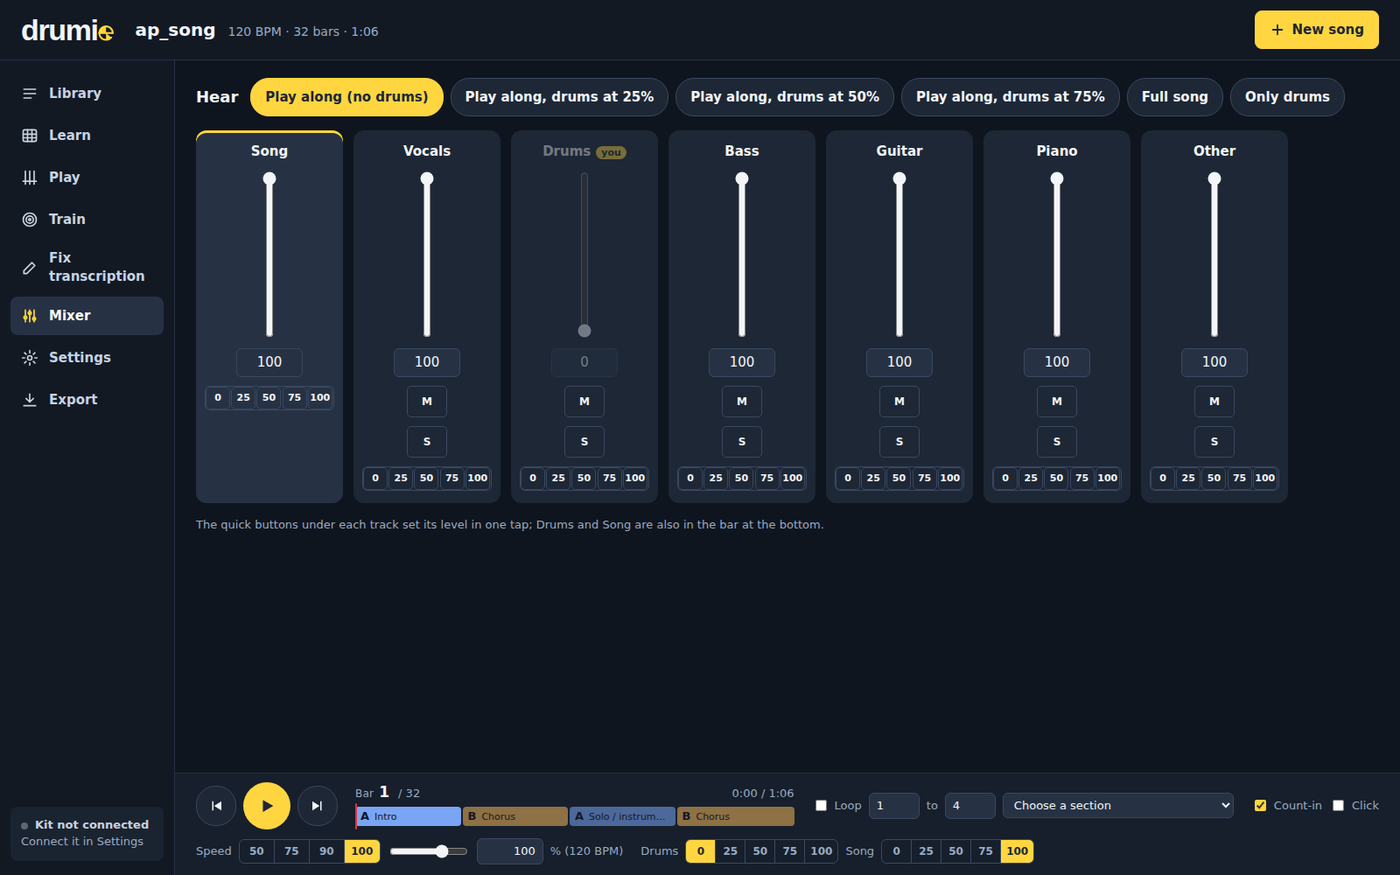
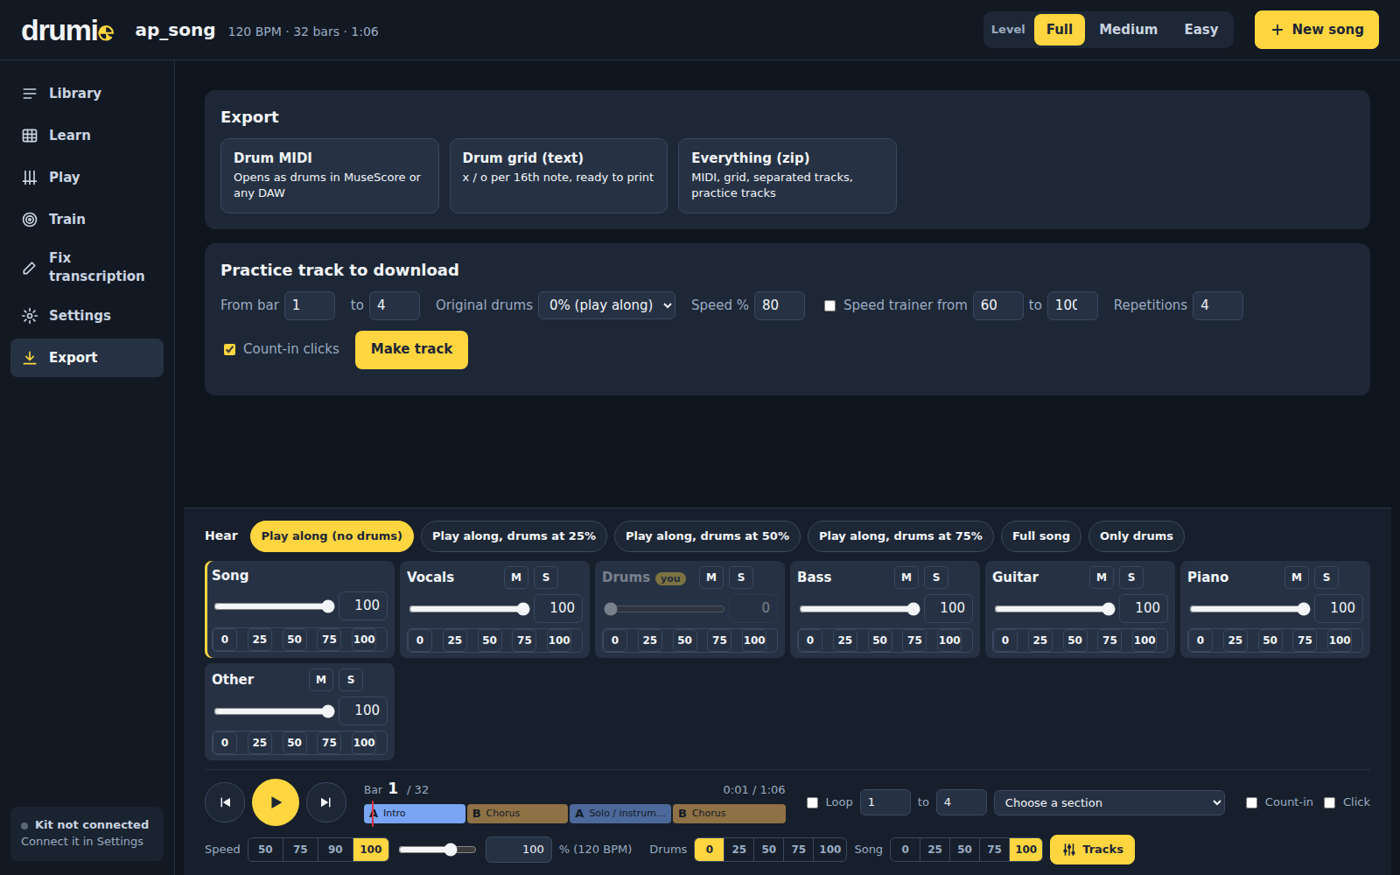
v0.36.0: the mixer in every section
Claude-Session: https://claude.ai/code/session_01PHcUNcDaac3decYkGSbU6z

diff --git a/README.md b/README.md
@@ -30,9 +30,10 @@ Questions, ideas or a song it gets wrong: open an [issue](../../issues).
 The app is organized like a practice room: a **Library** with your songs, and for the open song
 one section per job, in a sidebar (a narrow rail on laptops, a row of tabs on a phone):
 **Learn** (kit, grid, steps), **Play** (highway on your MIDI kit), **Train** (calibration,
-challenges, history), **Fix transcription**, **Mixer**, **Settings** (kit, pad map, timing,
-storage) and **Export**. The play bar at the bottom (play, bar, loop, speed, drums/song volume)
-stays the same in every section, so the music keeps going while you switch.
+challenges, history), **Fix transcription**, **Settings** (kit, pad map, timing, storage) and
+**Export**. The play bar at the bottom (play, bar, loop, speed, drums/song volume) stays the same
+in every section, so the music keeps going while you switch, and its **Tracks** button opens the
+mixer (a volume, mute and solo per instrument, and presets) right there, in any section.
 
 - **Library**: paste a link or upload a file, watch the analysis progress, open, analyze again
   or delete songs, search, and see the disk they use.
@@ -79,7 +80,7 @@ stays the same in every section, so the music keeps going while you switch.
 
 Keys: Space play/pause, arrows jump a bar, L toggles the loop.
 
-![Mixer](docs/img/mixer.png)
+![Tracks: the mixer opened from the play bar](docs/img/mixer.png)
 
 ## How accurate is it
 

diff --git a/CHANGELOG.md b/CHANGELOG.md
@@ -4,6 +4,19 @@ Every version: what changed and why, with the measurement behind it when there i
 Design notes and all measurements in detail (Portuguese): [docs/PROJETO.md](docs/PROJETO.md).
 Every version here becomes a GitHub release automatically (tag + these notes): `.github/workflows/release.yml` runs on each push to main. `scripts/release.sh` is the manual fallback.
 
+## v0.36.0 (2026-10-13): The mixer in every section; buttons styled in every browser
+
+**Tracks, in the play bar.** The Mixer section is gone: a **Tracks** button in the play bar opens
+the mixer right above it, in Learn, Play, Fix, Settings and Export, so you change what you hear
+without leaving what you're doing. Same controls as before (presets, a volume with 0/25/50/75/100,
+mute and solo per instrument, the Song master), in a compact layout; open or closed is
+remembered. An old `#/mixer` link opens Learn with the Tracks open.
+
+**Buttons styled in every browser.** The player's styles were written with CSS nesting, which
+browsers before Chrome/Edge 112, Firefox 117 and Safari 16.5 ignore completely, leaving white,
+unstyled buttons. The page now gets a flattened copy that every browser reads; checked identical
+to the nested version on all 41,574 element styles of the 7 sections.
+
 ## v0.35.0 (2026-10-13): Levels: Full, Medium, Easy
 
 **Play the song before you can play all of it.** A level switch at the top of the page:

diff --git a/docs/PROJETO.md b/docs/PROJETO.md
@@ -9,7 +9,7 @@ as batidas, acha padrões e passos, e oferece um player com kit, grade, modo Ste
 Hero" para bateria eletrônica via MIDI. O código também transcreve outros instrumentos, mas essa
 parte está congelada e escondida (`MUSIC_PRACTICE_ALL_INSTRUMENTS=1` mostra).
 
-Estado atual: **v35** (13/10/2026), publicado no GitHub. Foco: bateria.
+Estado atual: **v36** (13/10/2026), publicado no GitHub. Foco: bateria.
 
 ---
 
@@ -460,3 +460,4 @@ python tests/benchmark_mdb.py drum_only             # precisão real (precisa do
 | v33 | Identidade Drumie: nome, logo com o alvo de teste no "e", mascote boneco de testes em 4 poses (Biblioteca vazia, erros, resultado dos desafios), favicon e indicador de carregando; comando `drumie` |
 | v34 | Licença: grátis e código fechado (v0.24 a v0.33 seguem MIT); THIRD_PARTY_NOTICES.md; código vai para repositório privado e uma vitrine pública mostra README, CHANGELOG e releases |
 | v35 | Níveis Completo / Médio / Fácil derivados da transcrição por regras (plugins/drum_simplify.py); grade, steps, kit e highway seguem o nível; Fix sempre no Completo |
+| v36 | Seção Mixer substituída pelo botão Tracks na barra de play (mixer em todas as seções); CSS achatado (sem aninhamento) para navegadores antigos |
